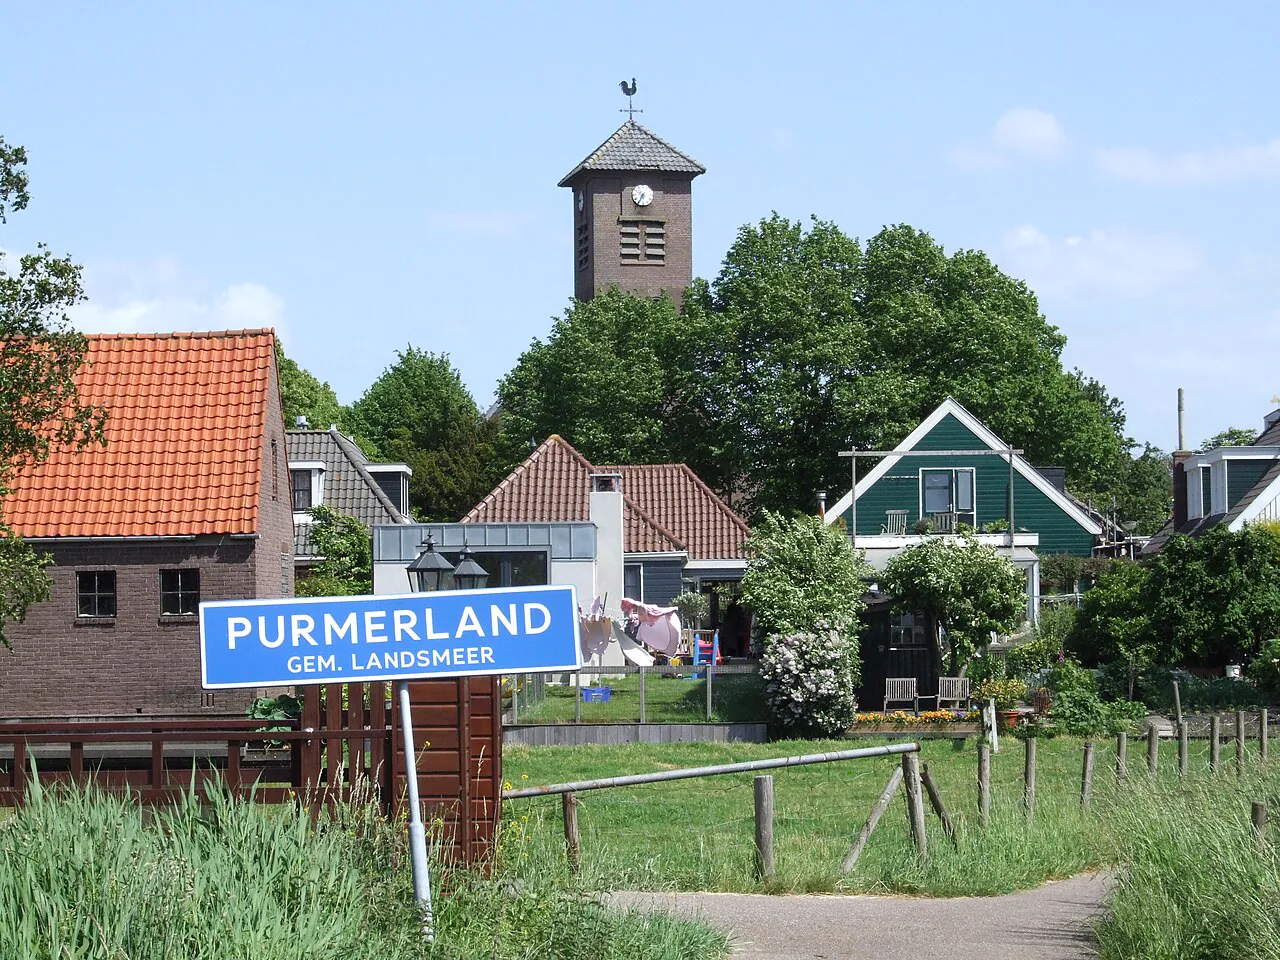
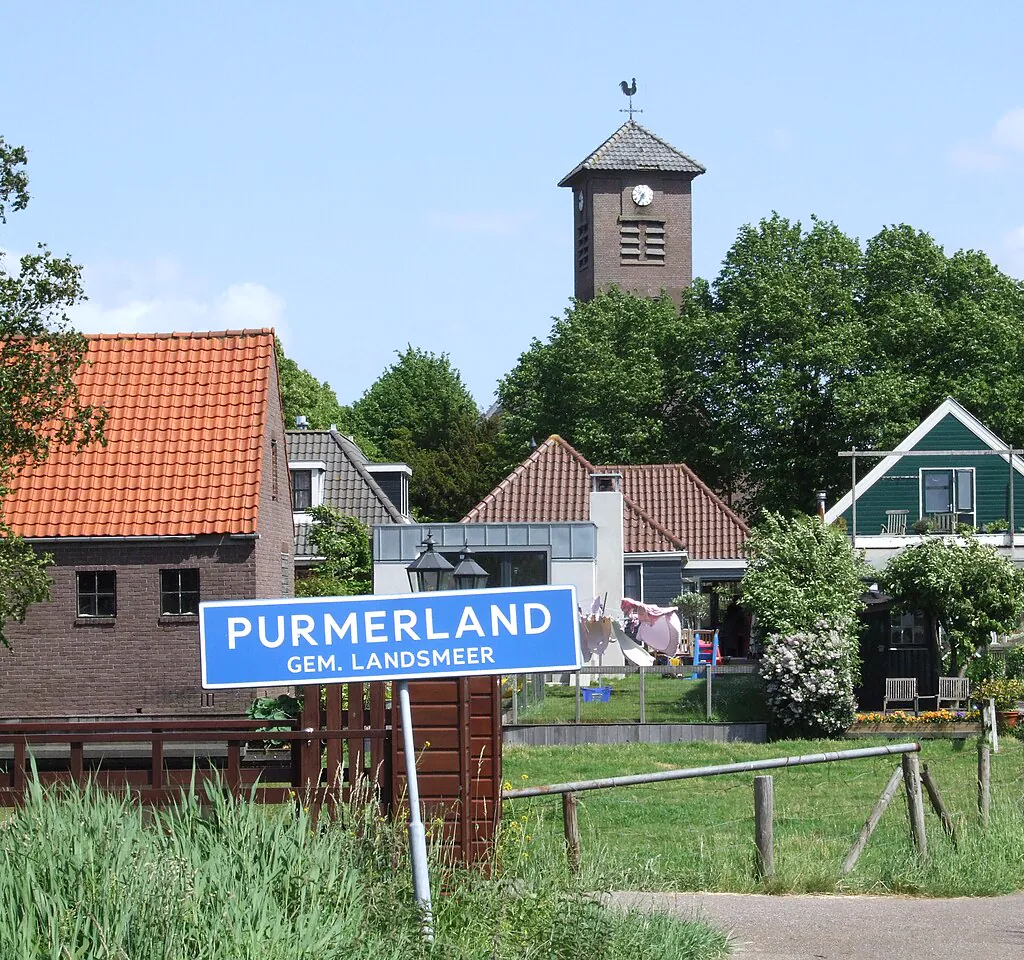
fixes

diff --git a/blog-website-laten-maken-den-ilp.html b/blog-website-laten-maken-den-ilp.html
@@ -146,7 +146,7 @@
           <p class="lead" data-reveal style="--reveal-delay:.16s">Onderneem je in Den Ilp en wil je een website die echt klanten oplevert? In dit artikel lees je waar je als lokale ondernemer in dit Waterlandse dorp op moet letten, hoe je in de buurt gevonden wordt en wat een professionele website kost.</p>
           </div>
           <div class="hero-media" data-reveal style="--reveal-delay:.2s">
-            <img class="hero-media__img" src="assets/img/steden/denilp.webp" alt="Het veenweidelandschap van Waterland rond Den Ilp" width="900" height="675" loading="eager" fetchpriority="high">
+            <img class="hero-media__img" src="assets/img/steden/denilp.webp" alt="Het plaatsnaambord van Den Ilp, gemeente Landsmeer" width="900" height="675" loading="eager" fetchpriority="high" style="object-position:right center">
           </div>
         </div>
       </div>